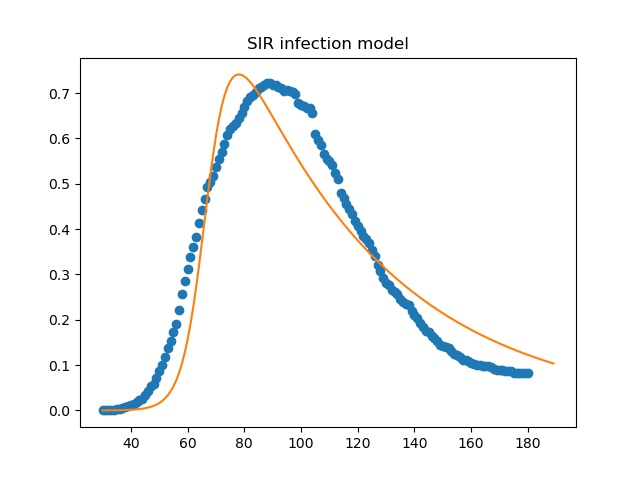
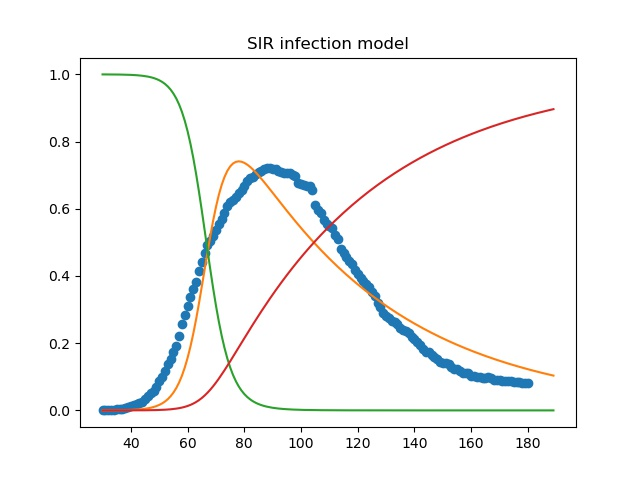
add sir model fitting

diff --git a/sir_model.py b/sir_model.py
@@ -15,6 +15,12 @@ def sir_model(y, x, beta, gamma):
 def fit_odeint(x, beta, gamma):
     return integrate.odeint(sir_model, (S0, I0, R0), x, args=(beta, gamma))[:, 1]
 
+def fit_odeint_susceptible(x, beta, gamma):
+    return integrate.odeint(sir_model, (S0, I0, R0), x, args=(beta, gamma))[:, 0]
+
+def fit_odeint_recovered(x, beta, gamma):
+    return integrate.odeint(sir_model, (S0, I0, R0), x, args=(beta, gamma))[:, 2]
+
 
 if __name__ == '__main__':
     conn = dp.import_data_to_db('full')
@@ -39,9 +45,13 @@ if __name__ == '__main__':
     print("Gamma:", popt[1])
 
     fitted = fit_odeint(x_all, *popt)
+    fitted2 = fit_odeint_susceptible(x_all, *popt)
+    fitted3 = fit_odeint_recovered(x_all, *popt)
 
     plt.plot(xdata, ydata, 'o')
     plt.plot(x_all, fitted)
+    plt.plot(x_all, fitted2)
+    plt.plot(x_all, fitted3)
     plt.title('SIR infection model')
     plt.savefig('results/sir/infection.jpg')
     plt.show()
